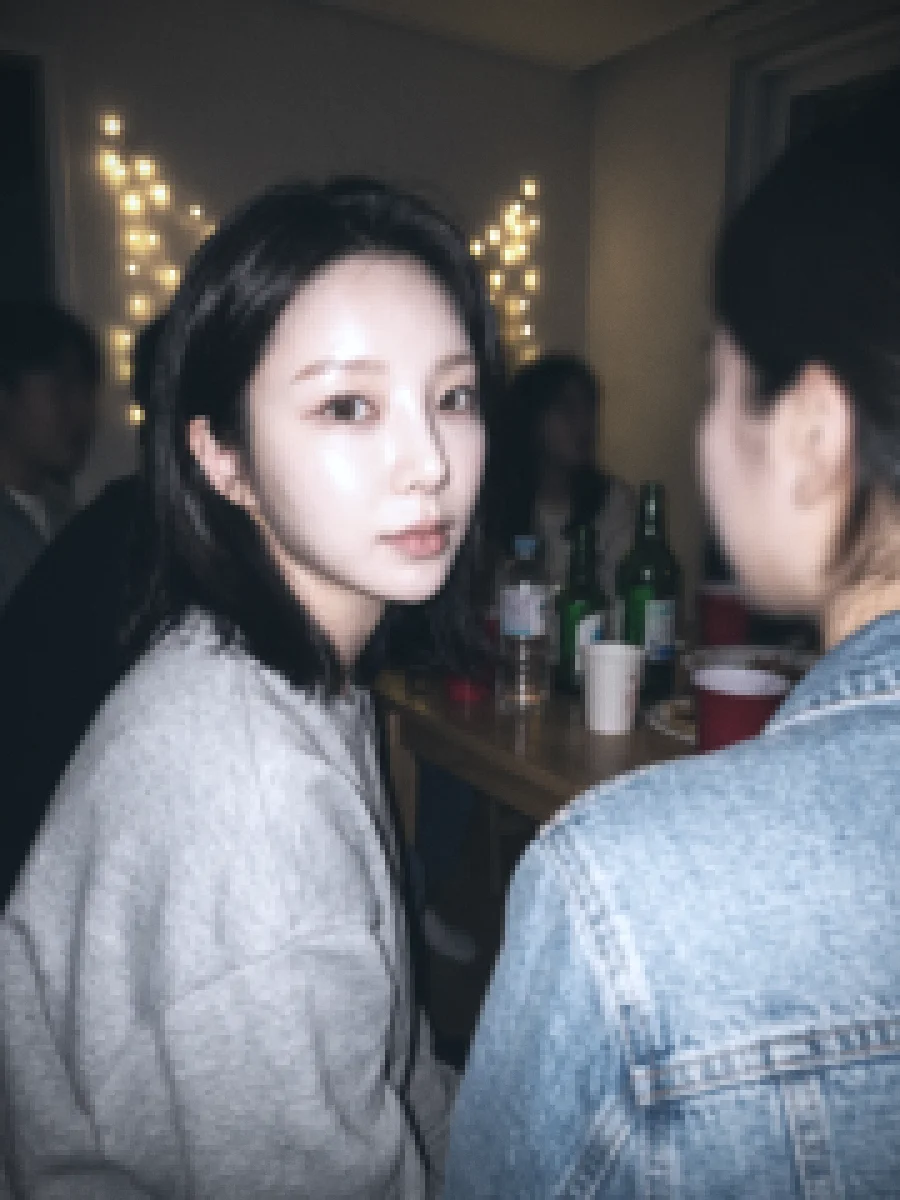
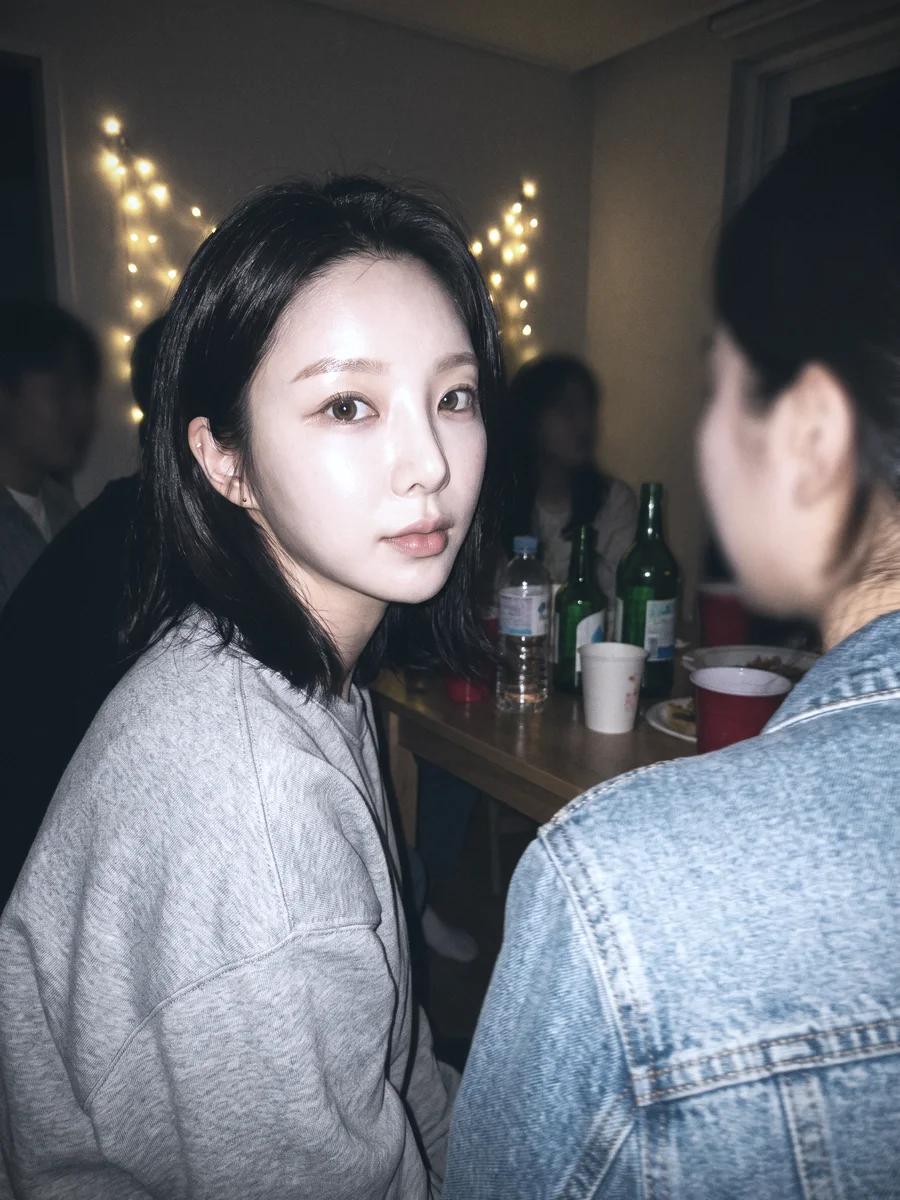
fix(filters): 폴더폰 — 해상도 깎는 효과(lowres·blur) 제거, 색감·노이즈·비네팅만(오너 10/27); filters.json 으로 iOS 88+·안드 121+ 빌드 없이 반영; sw v223
Claude-Session: https://claude.ai/code/session_01H2YvAQhUpTna7rrNEqetDc

diff --git a/src/filters.js b/src/filters.js
@@ -131,7 +131,8 @@ export const FILM_PRESETS = [
 
   { key: "folder",  ko: "폴더폰",  en: "Flip Phone", group: "phone", // 2004 — 30만 화소 폴더폰: 뭉개짐·블록·뿌연 저채도·청록 캐스트·노이즈·하이라이트 날림(오너 2026-10-26)
     temp: -10, tint: 6, ex: 0.18, con: 0.22, fade: 24, whitePull: 0,  sat: -0.35, vib: -0.05, sh: [-6, 4, 10], hi: [-2, 2, 8],
-    fx: { lowres: 0.005, blur: 0.08, grain: 0.55, vignette: 0.55 } },
+    // 해상도는 건드리지 않는다(오너 10/27 "해상도까지 조져버리지는 말아라") — 3GS 와 같은 원칙: 색감·노이즈·비네팅만.
+    fx: { grain: 0.55, vignette: 0.55 } },
 
   /* ── 재미 (SNOW류 — 특수 렌더 모드, special 필드가 전용 코드 경로를 탄다) ── */
   // 인플 — 얼굴 피부 보정(뷰티). 색 LUT 대신 beautyRGBA 를 탄다. 강도 = 색감 슬라이더(0 = 원본).
@@ -225,6 +226,10 @@ export const FILM_PRESETS = [
     fx: { glow: 0.8 } },
   // 피사체 글로우(오너 2026-10-27, 아이폰 '스티커 들어 올리기' 느낌) — 인물 윤곽 바깥에 하얀 글로우 + 배경 어둡게. 인물 마스크 필요(effects.personMask).
   { key: "subjectglow", ko: "피사체 글로우", en: "Subject Glow", group: "mood", special: "subjectglow" },
+  // 플래시 스타(오너 2026-10-27 거울 셀카 레퍼런스) — 가장 밝은 점(폰 플래시)에서 크게 퍼지는 6갈래 별빛 + 빛 뭉침 +
+  // 반대편 청록 렌즈 고스트 + 살짝 뿌연 톤. 위치 = effects.spotPos(없으면 자동으로 가장 밝은 곳), 크기 = effects.spotSize. 시안 단계라 숨김.
+  { key: "flashstar", ko: "플래시 스타", en: "Flash Star", group: "mood", special: "flashstar", hidden: true,
+    temp: -2, tint: 4, ex: 0.06, con: -0.08, fade: 10, whitePull: 8, sat: -0.04, vib: 0.04, sh: [2, 2, 6], hi: [6, 6, 8] },
   { key: "twinkle",  ko: "트윙클",    en: "Twinkle", group: "mood",
     temp: 4, tint: 0, ex: 0.03, con: 0.1, fade: 6, whitePull: 6, sat: 0.06, vib: 0.2,
     sh: [0, 0, 4], hi: [8, 6, 0],
@@ -271,6 +276,9 @@ export function applyLookWithStrength(data, w, h, preset, effects = {}, strength
     dreamyRGBA(data, w, h, k, effects.faces, effects.seed); // 색감 슬라이더 = 빛번짐 세기(70% = 기본 룩)
   } else if (p?.special === "flashsoft" || p?.special === "flashhard") {
     slowSyncRGBA(data, w, h, k, effects.personMask, p.special === "flashhard");
+  } else if (p?.special === "flashstar") {
+    applyLook(data, w, h, { ...p, special: undefined }, seedOnly);
+    flashStarRGBA(data, w, h, Math.min(1.4, k), effects.spotPos, effects.spotSize || 1);
   } else if (p?.special === "subjectglow") {
     subjectGlowRGBA(data, w, h, Math.min(1.4, k), effects.personMask);
   } else if (p) {
@@ -495,6 +503,12 @@ export function applyLook(data, w, h, preset, effects = {}) {
     dreamyRGBA(data, w, h, 1, effects.faces, effects.seed);
     const { faces: _f, ...rest } = effects;
     return applyLook(data, w, h, null, rest);
+  }
+  if (preset?.special === "flashstar") {
+    const { personMask: _m, faces: _f, ...rest } = effects;
+    applyLook(data, w, h, { ...preset, special: undefined }, rest);    // 색 먼저
+    flashStarRGBA(data, w, h, 1, effects.spotPos, effects.spotSize || 1);
+    return data;
   }
   if (preset?.special === "subjectglow") {
     subjectGlowRGBA(data, w, h, 1, effects.personMask);
@@ -1659,6 +1673,58 @@ function slowSyncRGBA(data, w, h, a, maskIn, hard) {
     }
     const r = Math.min(1, rgb[0] * 1.05 + 0.01) * vig, g = rgb[1] * vig, b = rgb[2] * (hard ? 0.93 : 0.96) * vig;
     data[j] = clamp8(data[j] + (r * 255 - data[j]) * a); data[j + 1] = clamp8(data[j + 1] + (g * 255 - data[j + 1]) * a); data[j + 2] = clamp8(data[j + 2] + (b * 255 - data[j + 2]) * a);
+  }
+}
+
+/* 플래시 스타 — 거울 셀카 플래시처럼 한 점에서 크게 터지는 6갈래 별빛(screen 합성, sRGB).
+   광원: pos(0~1) 가 없으면 64칸 축소본에서 가장 밝은 칸. */
+function flashStarRGBA(data, w, h, a, pos, size) {
+  if (!(a > 0.001)) return;
+  let sx, sy;
+  if (pos) { sx = pos.x * w; sy = pos.y * h; }
+  else {
+    // 자동: 하얗게 날아간 작은 점(조명·전구·해·플래시)만 광원으로 본다 — 평균이 아니라 칸의 최댓값, 250 이상.
+    // 얼굴처럼 넓게 밝은 곳은 고르지 않는다(1차 시안에서 얼굴에 터졌다). 없으면 위쪽 가운데.
+    const G = 48, gw = Math.ceil(w / G), gh = Math.ceil(h / G); let best = -1, bestArea = 1e9;
+    sx = w * 0.5; sy = h * 0.28;
+    for (let gy = 0; gy < G; gy++) for (let gx = 0; gx < G; gx++) {
+      let mx = 0, hot = 0, n = 0;
+      for (let y = gy * gh; y < Math.min(h, (gy + 1) * gh); y += 2) for (let x = gx * gw; x < Math.min(w, (gx + 1) * gw); x += 2) {
+        const i = (y * w + x) * 4, v = Math.min(data[i], data[i + 1], data[i + 2]); if (v > mx) mx = v; if (v >= 250) hot++; n++;
+      }
+      if (mx < 250) continue;
+      const area = hot / Math.max(1, n);                       // 칸 안에서 날아간 비율 — 작을수록 점 광원
+      if (area < 0.6 && (mx > best || (mx === best && area < bestArea))) { best = mx; bestArea = area; sx = (gx + 0.5) * gw; sy = (gy + 0.5) * gh; }
+    }
+  }
+  const M = Math.min(w, h), L = M * 0.42 * size;                         // 갈래 길이 — 짧게(레퍼런스는 금방 흐려진다)
+  const rays = [], phase = -Math.PI / 2 + 0.3;
+  for (let r = 0; r < 6; r++) { const ang = phase + r * Math.PI / 3; rays.push([Math.cos(ang), Math.sin(ang), r % 2 ? 0.8 : 1]); }
+  const core = M * 0.028 * size, halo = M * 0.12 * size, haze = M * 0.55 * size, rw = M * 0.0055 * size;
+  const gx = w - sx, gy = h - sy, gr = M * 0.06 * size;
+  // ① 빛에 젖은 듯 전체를 뿌옇게: 광원에서 멀수록 약하게 + 사진 전체 살짝 밝게(검정 뜸)
+  for (let y = 0; y < h; y++) for (let x = 0; x < w; x++) {
+    const dx = x - sx, dy = y - sy, d2 = dx * dx + dy * dy, d = Math.sqrt(d2);
+    let v = Math.exp(-d2 / (2 * core * core)) * 1.0 + Math.exp(-d2 / (2 * halo * halo)) * 0.3 + Math.exp(-d2 / (2 * haze * haze)) * 0.2;
+    for (const [cx, cy, wgt] of rays) {
+      const t = dx * cx + dy * cy; if (t <= 0) continue;
+      const tt = t / L; if (tt > 1.6) continue;
+      const p = Math.abs(-dx * cy + dy * cx);
+      const wid = rw * (1.6 - 0.9 * Math.min(1, tt));                 // 뿌리가 굵고 끝으로 갈수록 가늘게
+      const f = Math.exp(-tt * 2.6);                                  // 빠르게 흐려짐
+      v += wgt * f * (Math.exp(-(p * p) / (2 * wid * wid)) * 0.9 + Math.exp(-(p * p) / (2 * (wid * 4) ** 2)) * 0.25);
+    }
+    const gd = Math.hypot(x - gx, y - gy) / gr;
+    const ghost = gd < 1.2 ? Math.exp(-((gd - 0.85) ** 2) / 0.06) * 0.22 + (gd < 1 ? 0.08 : 0) : 0;
+    const i = (y * w + x) * 4;
+    const add = [v * 1.0, v * 0.97, v * 1.0];                             // 살짝 차가운 흰빛
+    const gc = [ghost * 0.3, ghost * 0.85, ghost * 0.8];
+    for (let c = 0; c < 3; c++) {
+      let o = data[i + c] / 255;
+      o = o * (1 - 0.1 * a) + 0.1 * a;                                    // 전체가 빛에 살짝 젖음(검정이 뜸)
+      const e = Math.min(1, (add[c] + gc[c]) * a);
+      data[i + c] = clamp8((1 - (1 - o) * (1 - e)) * 255);                // screen
+    }
   }
 }
 

diff --git a/ios2/rimikimi/UI/Camera/LiveFilter.swift b/ios2/rimikimi/UI/Camera/LiveFilter.swift
@@ -138,7 +138,7 @@ enum LiveFilter {
         "glitch": .init(special: .glitch),
         "vhs": .init(fx: .init(grain: 0.35), special: .vhs),
         // 폴더폰 · Y2K · 하두리(옛 웹캠) — 오너 2026-10-26. filters.js 와 같은 값.
-        "folder": .init(temp: -10, tint: 6, ex: 0.18, con: 0.22, fade: 24, sat: -0.35, vib: -0.05, sh: [-6, 4, 10], hi: [-2, 2, 8], fx: .init(grain: 0.55, vignette: 0.55, blur: 0.08, lowres: 0.005)),
+        "folder": .init(temp: -10, tint: 6, ex: 0.18, con: 0.22, fade: 24, sat: -0.35, vib: -0.05, sh: [-6, 4, 10], hi: [-2, 2, 8], fx: .init(grain: 0.55, vignette: 0.55)),
         "y2k": .init(temp: -14, tint: 2, ex: 0.2, con: 0.45, sat: 0.3, vib: 0.1, sh: [-10, 0, 20], hi: [8, 0, 8], hsl: [.init(c: 225, w: 60, h: 0, s: 0.3, l: 0), .init(c: 180, w: 40, h: 0, s: 0.2, l: 0)], fx: .init(grain: 0.3, vignette: 1.0, glow: 0.8)),
         "haduri": .init(temp: 12, tint: 8, ex: 0.18, con: -0.1, fade: 26, whitePull: 20, sat: -0.2, sh: [6, 6, -4], hi: [8, 6, -10], fx: .init(grain: 0.45, glow: 0.7, blur: 0.15, lowres: 0.004)),
         // 효과 5종(오너 2026-10-27 "효과 10개") — filters.js 와 같은 값.

diff --git a/rn/src/filters.ts b/rn/src/filters.ts
@@ -146,7 +146,7 @@ export const FILM_PRESETS: Preset[] = [
     fx: { grain: 0.55, vignette: 0.45 } },
   { key: "folder",  ko: "폴더폰",  en: "Flip Phone", group: "phone", // 웹 filters.js 와 같은 색 값(저해상도·블록은 편집기 웹에서)
     temp: -10, tint: 6, ex: 0.18, con: 0.22, fade: 24, whitePull: 0,  sat: -0.35, vib: -0.05, sh: [-6, 4, 10], hi: [-2, 2, 8],
-    fx: { grain: 0.55, vignette: 0.55, blur: 0.08 } },
+    fx: { grain: 0.55, vignette: 0.55 } },
 
   /* ── 재미 (SNOW류 — 특수 렌더 모드, special 필드가 전용 코드 경로를 탄다) ── */
   // 인플 — 얼굴 피부 보정(뷰티). 색 LUT 대신 beautyRGBA(웹 filters.js)를 탄다. 강도 = 색감 슬라이더(0 = 원본).

diff --git a/public/sw.js b/public/sw.js
@@ -10,7 +10,7 @@
 // 새 버전 배포 시: 아래 VERSION 만 올리면 됨.
 // ============================================================
 
-const VERSION = "v222";
+const VERSION = "v223";
 const STATIC_CACHE = `rimikimi-static-${VERSION}`;
 const THUMB_CACHE = `rimikimi-thumbs-${VERSION}`;
 const DATA_CACHE = `rimikimi-data-${VERSION}`;
